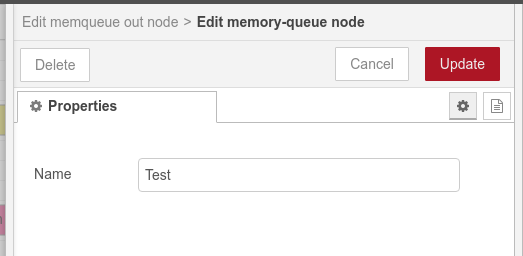
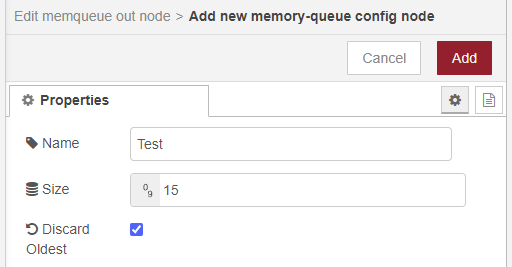
update readme

diff --git a/README.md b/README.md
@@ -14,13 +14,21 @@ How to use
 -----------
 ![Example Flow](/example/flow_example.png)
 
-#### Configure the queue config
-Configure the queue configuration with a unique name for the queue. To create multiple queues it is necessary to create new configurations with different names
+### Configure the queue config
+Configure the queue configuration with a unique name for the queue. To create multiple queues it is necessary to create new configurations with different names.
+
+Optionally, it is possible to limit the queue size, and to choose the desired behavior when the queue is full (whether to ignore the incoming messages or discard the oldest message in the queue and replace it with the incoming message).
 
 ![Example Configure](/example/config_example.png)
 
 Changelog
 -----------
+### 3.0.0
+* Add the ability to limit the queue size.
+* Add an option to discard the oldest message in the queue when full and replace it with the incoming message.
+* Add a new `queue resend` node type to output the same message from the queue again (instead of Acking).
+* Add status messages to the `queue in` and the `queue out` nodes.
+* Fix potential immutability issues through a deep clone of each message on input and output
 
-#### 2.0.0
+### 2.0.0
 * The entire msg object is added to the queue, not just the payload
